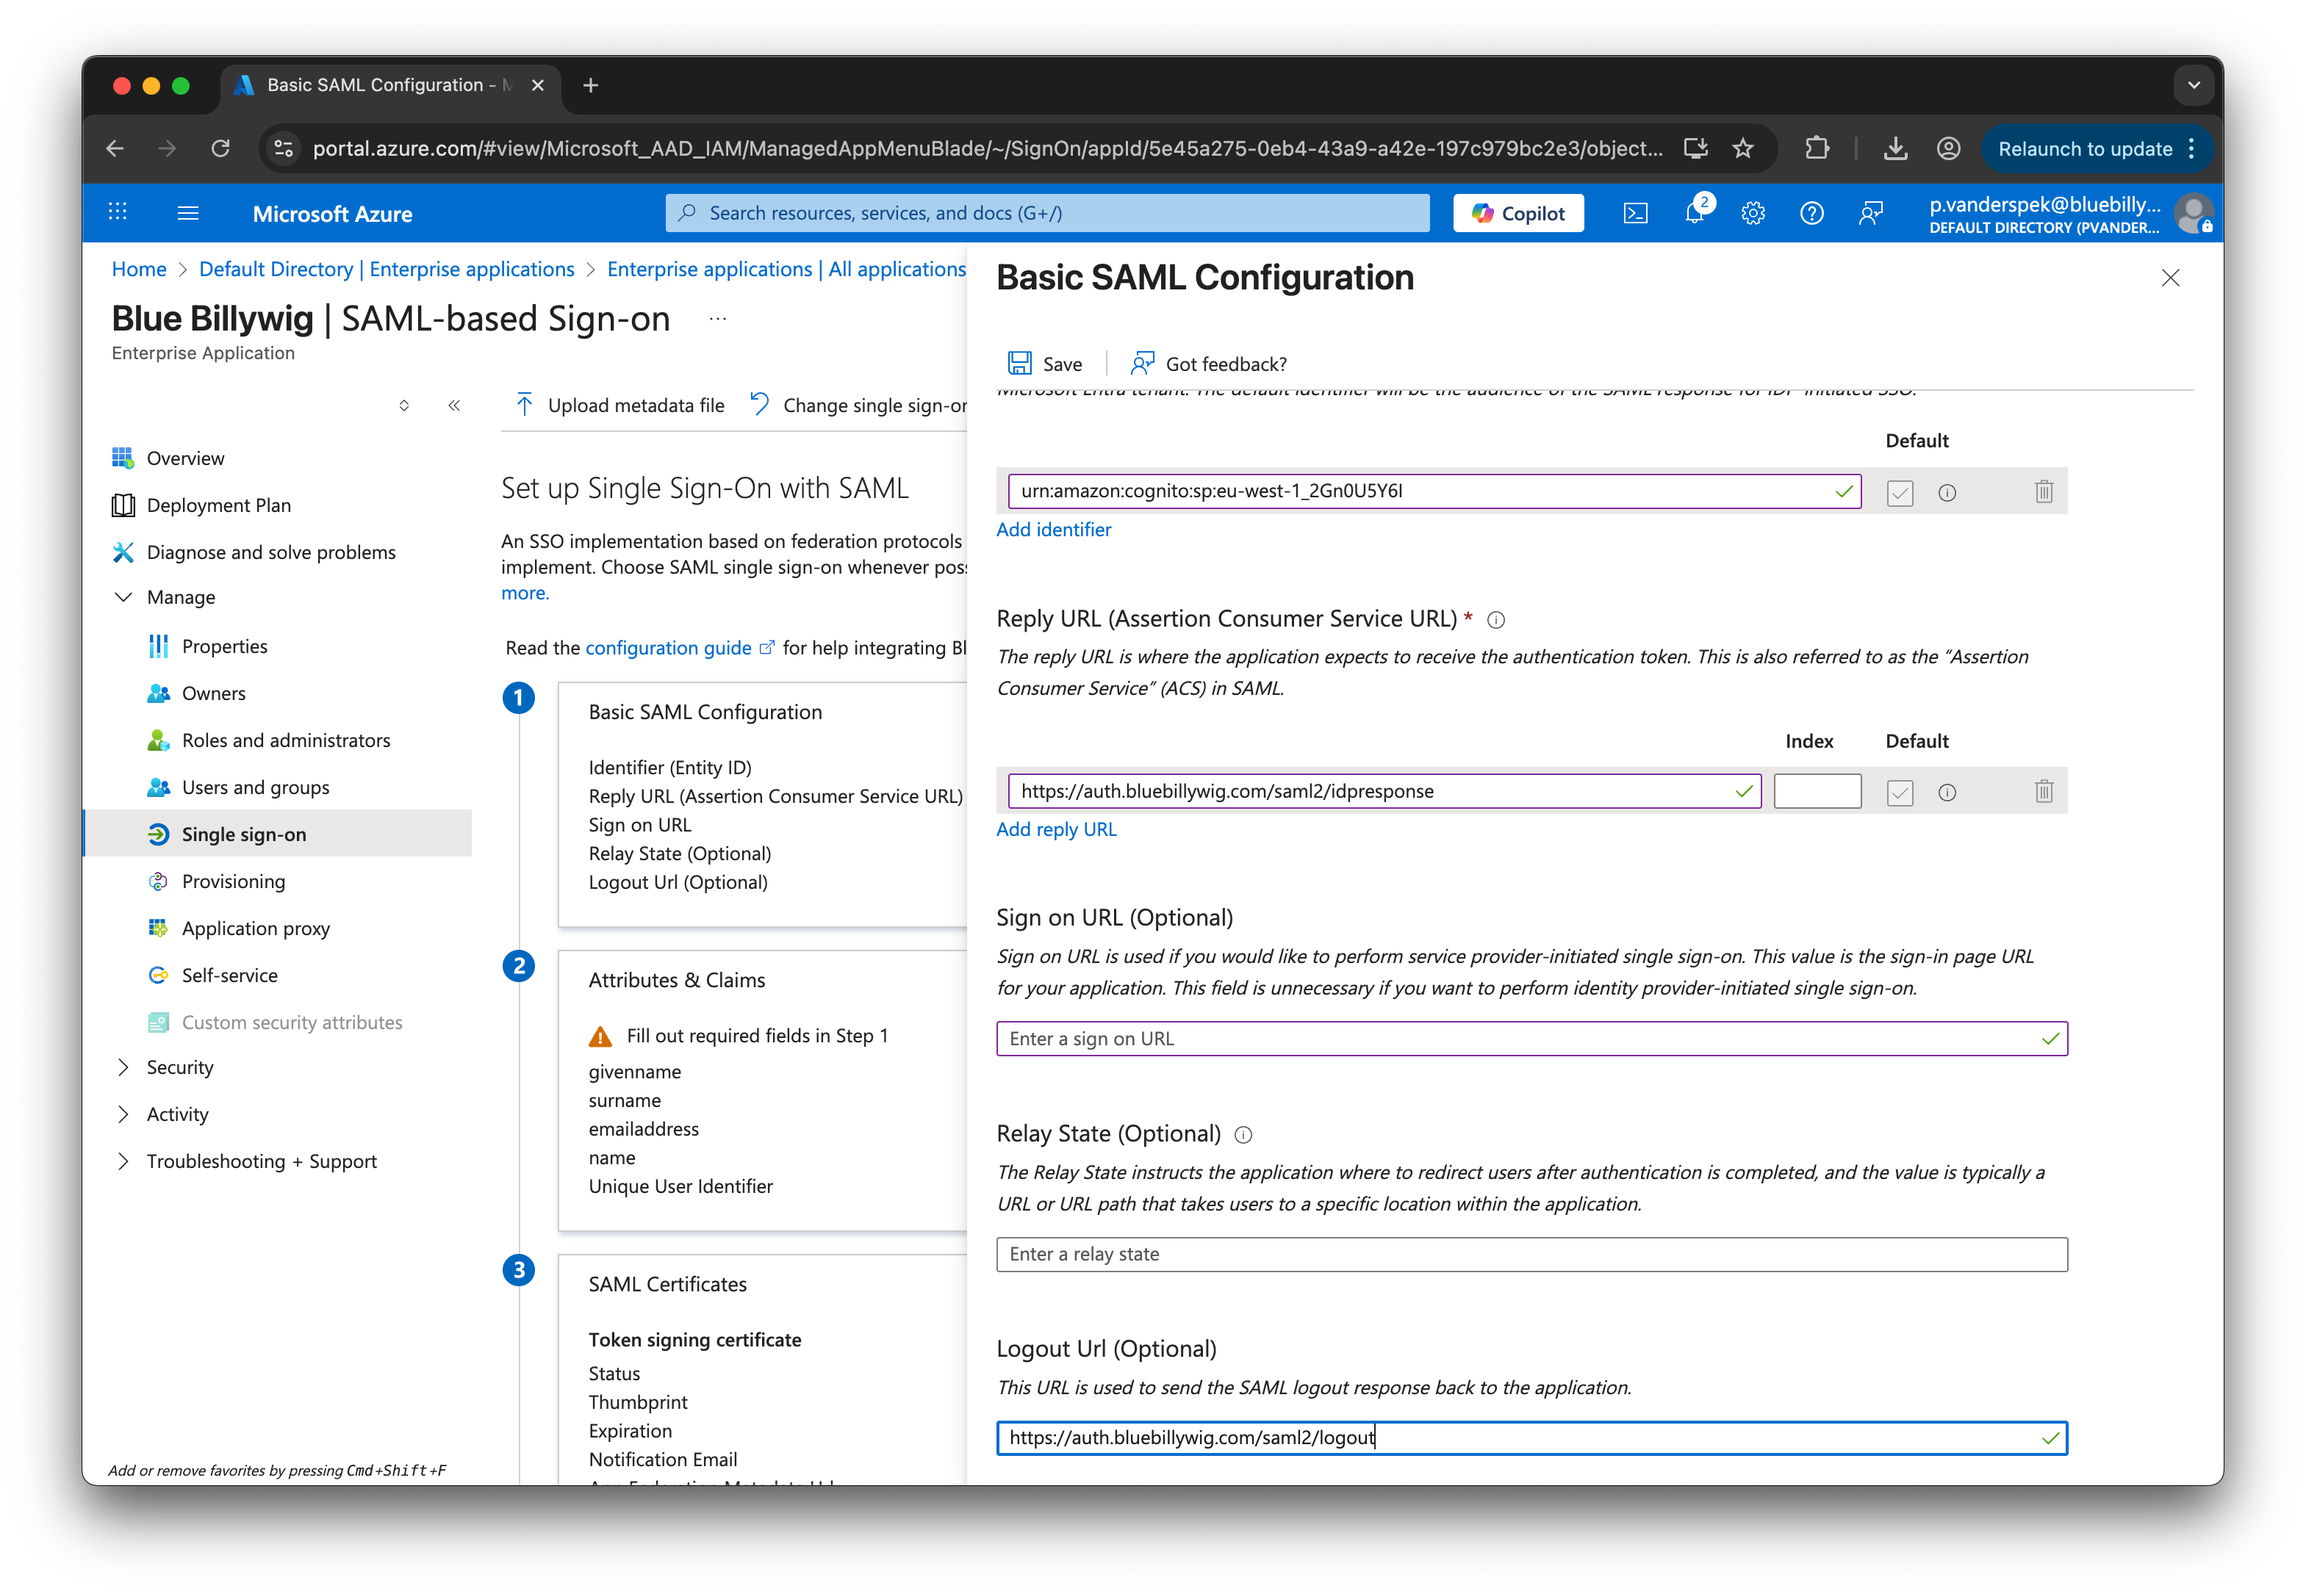
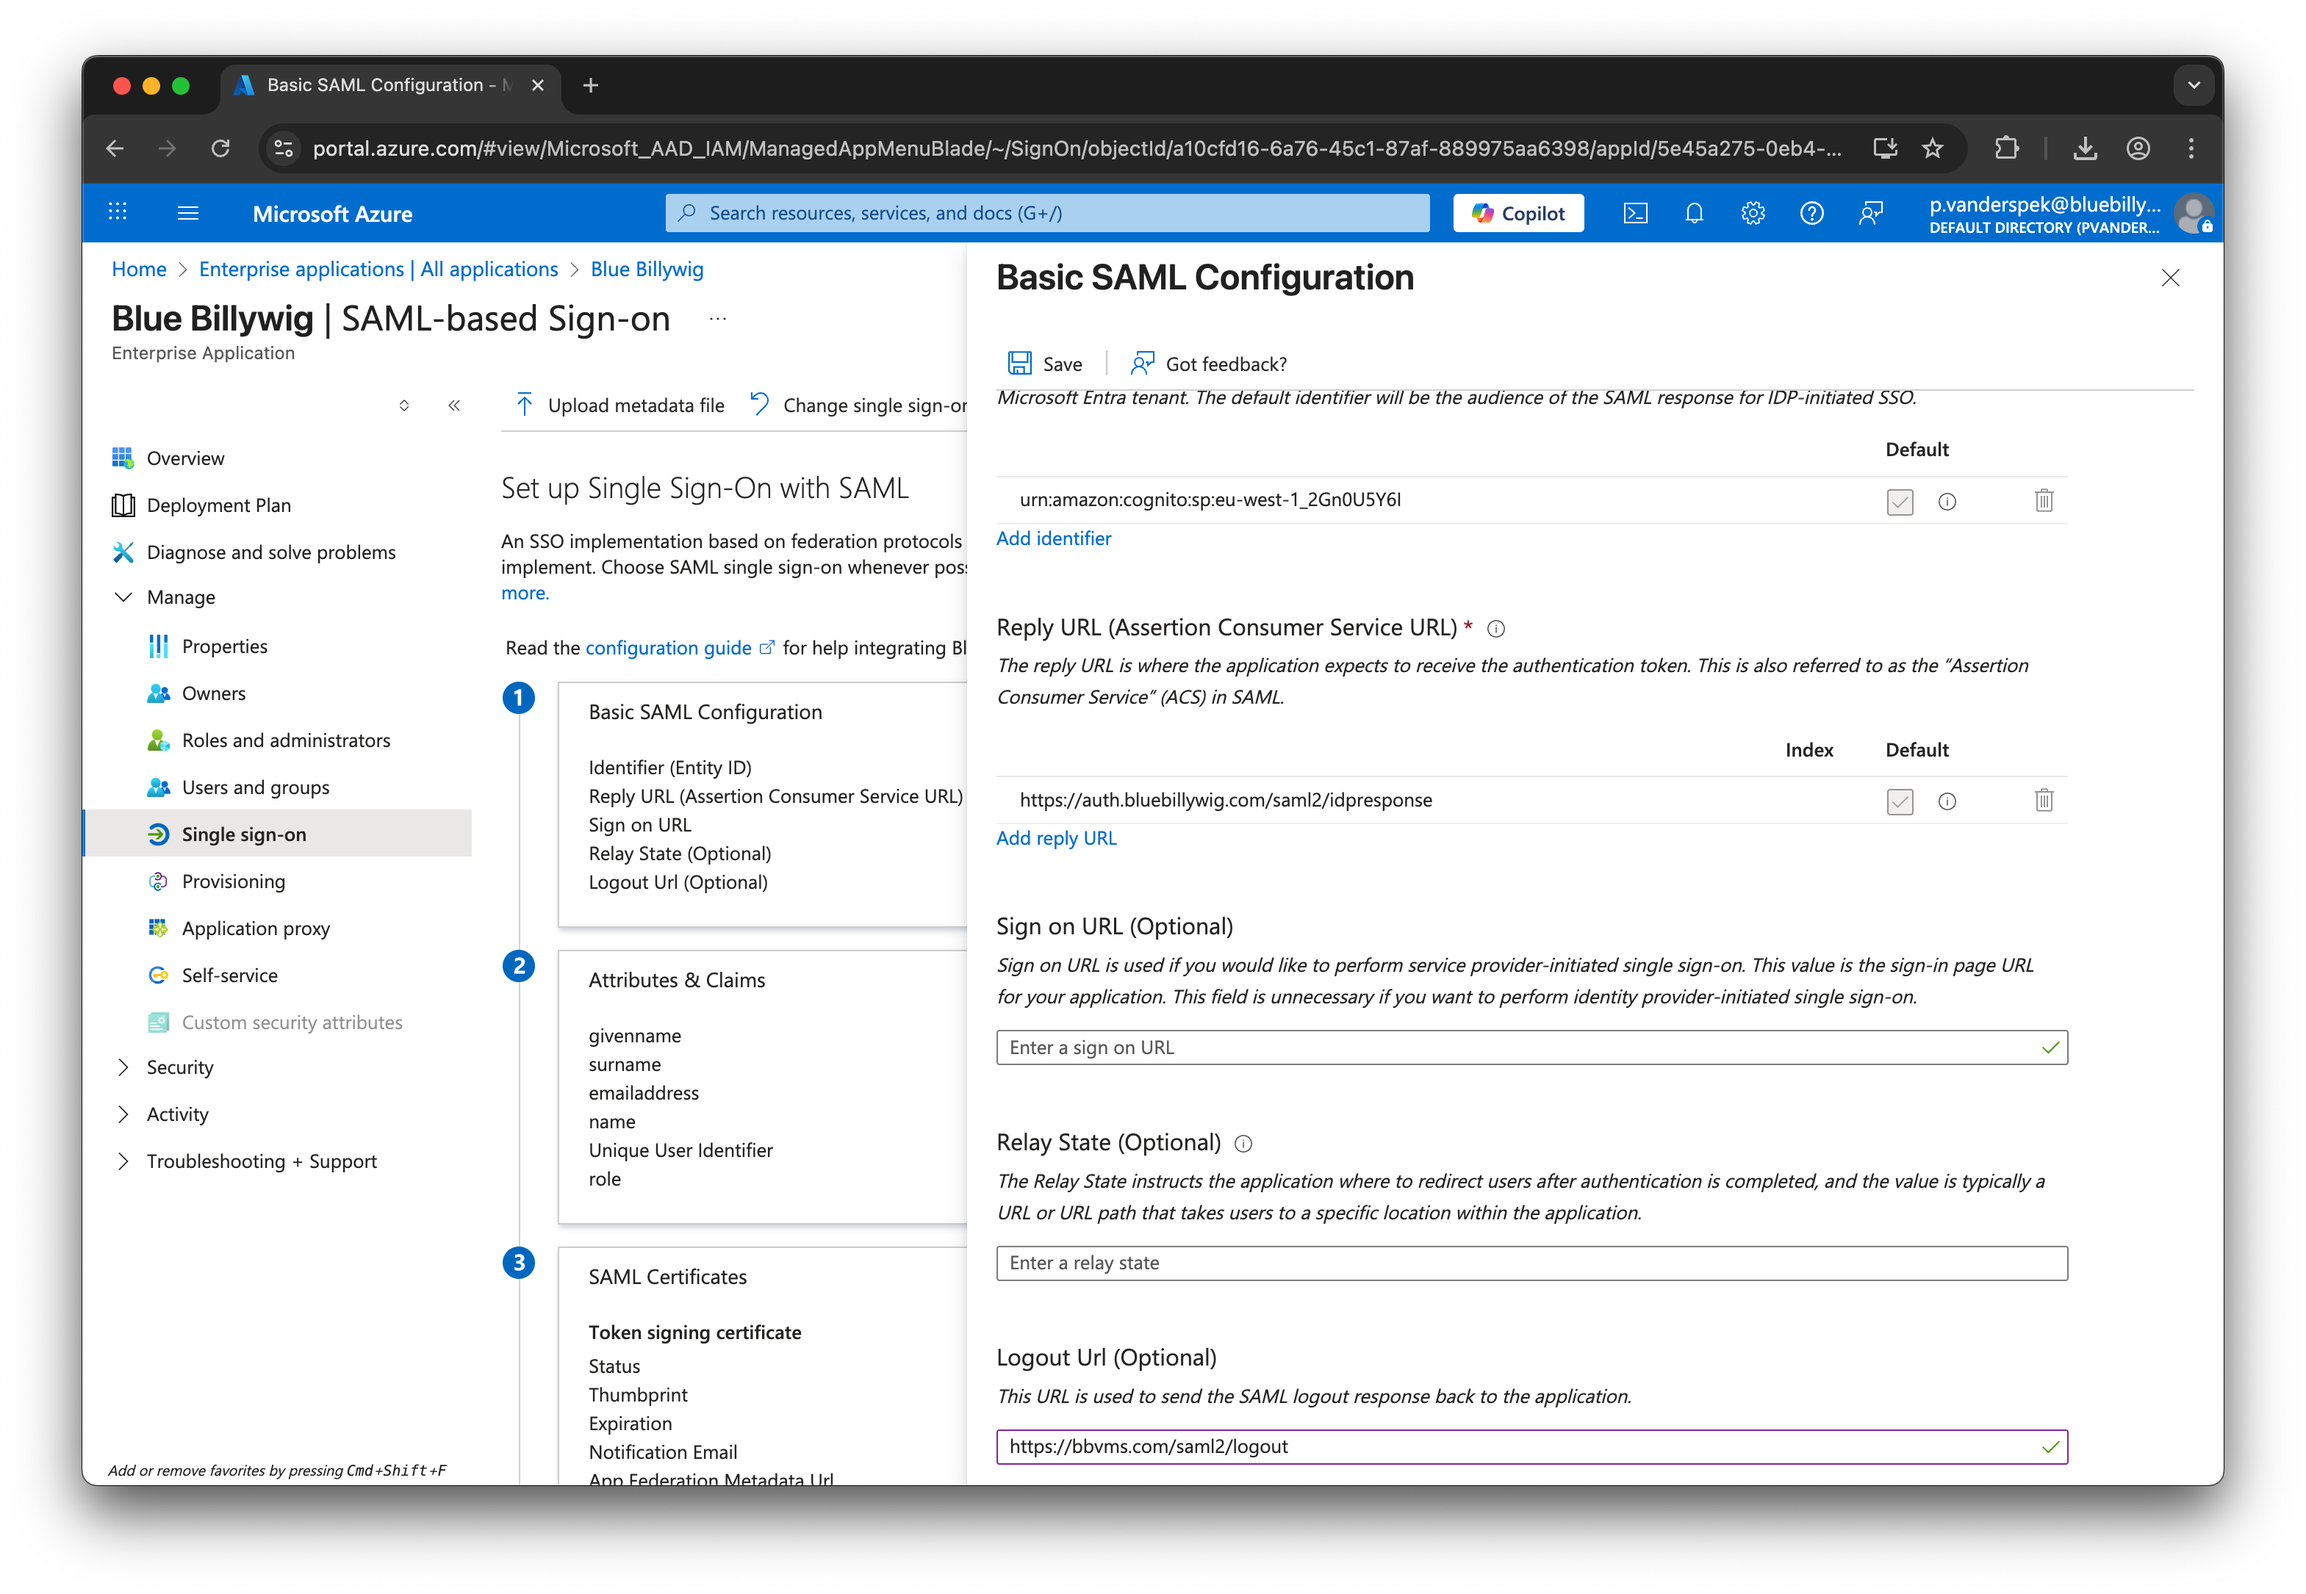
#17358 - Update to SAML Logout URL because Entra ID does not support POST callback.

diff --git a/EntraID.md b/EntraID.md
@@ -57,7 +57,7 @@ SAML has now been selected as the single sign-on method.
 * Enter **Reply URL (Assertion Consumer Service URL)**: `https://auth.bluebillywig.com/saml2/idpresponse`
 * Leave **Sign on URL** empty.
 * Leave **Relay State (Optional)** empty.
-* Enter **Logout Url (Optional)**: `https://auth.bluebillywig.com/saml2/logout`
+* Enter **Logout Url (Optional)**: `https://bbvms.com/saml2/logout`
 
 > [!NOTE]
 > The above **Identifier (Entity ID)**, **Reply URL**, and **Logout Url** are for connecting to the Blue Billywig 
@@ -66,7 +66,7 @@ SAML has now been selected as the single sign-on method.
 > 
 > * **Identifier (Entity ID)**: `urn:amazon:cognito:sp:eu-west-1_nPGHGV8P3`
 > * **Reply URL (Assertion Consumer Service URL)**: `https://test.auth.bluebillywig.com/saml2/idresponse`
-> * **Logout Url (Optional)**: `https://test.auth.bluebillywig.com/saml2/logout`
+> * **Logout Url (Optional)**: `https://test.bbvms.com/saml2/logout`
 
 ![Create app SSO SAML basic](img/entraid/create-app-sso-saml-basic.png)
 
